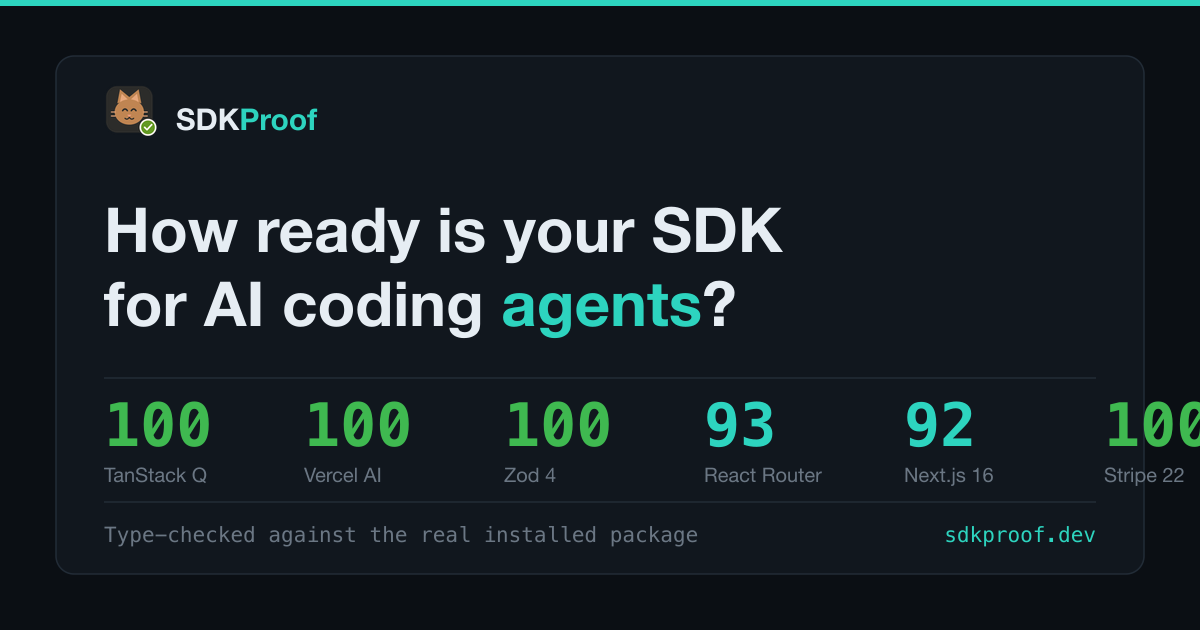
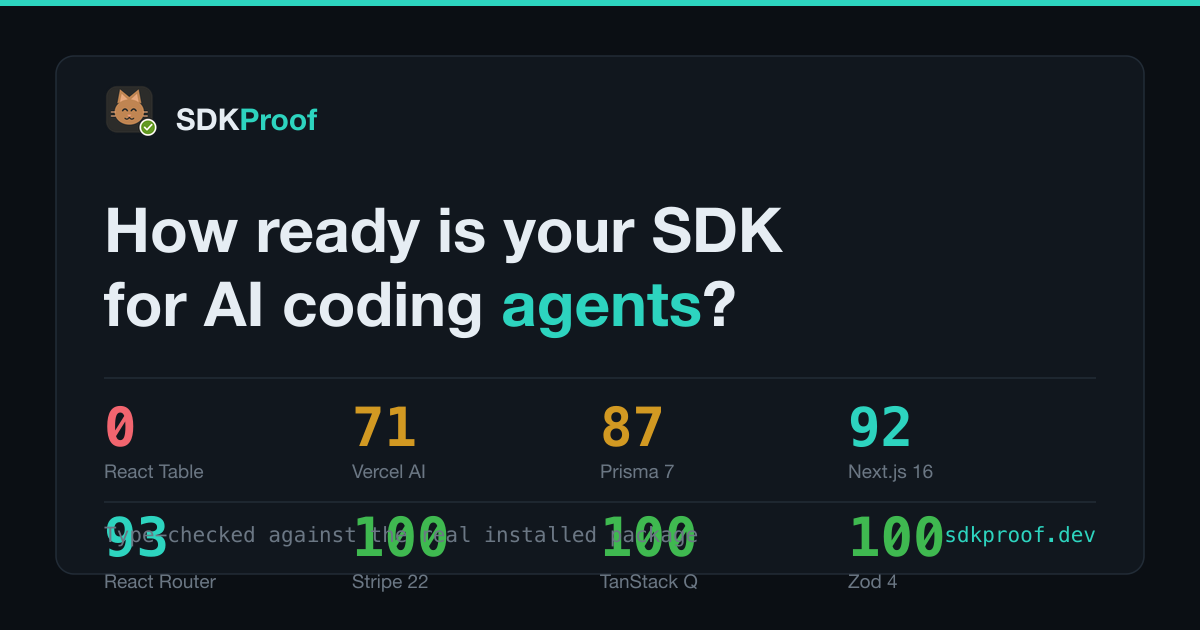
Close the three gaps the site audit turned up
react-table was on the board and in runs.json but absent from scores.json and
had no badge, so the lowest score on the site was missing from the only
machine-readable feed anyone else would read. It looked like data that did not
exist rather than a decision. Added to LIBS; scores.json now carries all eight
and there are seven badges. Stripe still has none on purpose — its 100 covers 10
of 15 tasks, and a badge is one number by construction.

The share card for the homepage was broken and had been for a while. boardSvg
laid cells out at x = 104 + i * 200 on a 1200px canvas, so the seventh sat at
x=1304 and Prisma 7 was drawn off the edge of every link preview. It also still
showed the Vercel AI SDK at 100 and had no react-table at all. Now two rows of
four, all eight libraries, worst first, rightmost cell ending at 958 with the
lowest baseline at 588 — inside 1200x630 with room.

The README regained the agent-docs finding. The rewrite dropped it rather than
republish figures it could not verify, which was right at the time; the numbers
are guarded by published-numbers.test.ts and are now quoted from there. The
sentence a library already ships fixes the failing task 10 out of 10 from 76 to
174 bytes, and inside React Router's own 25 KB pack the same sentence fixes
nothing. That is one of the better results here and it was only on the site.

diff --git a/docs/badge.html b/docs/badge.html
@@ -475,6 +475,13 @@
         </div>
         <pre class="snip"><code>[![SDKProof: 87/100](https://sdkproof.dev/badge/prisma7.svg)](https://sdkproof.dev/prisma7.html?ref=badge)</code></pre>
       </div>
+      <div class="badge-row">
+        <div class="badge-head">
+          <img class="badge-img" src="badge/react-table.svg" alt="SDKProof: 0/100" width="111" height="20">
+          <span class="badge-lib">TanStack React Table 9 <span class="badge-ver">9.1.2</span></span>
+        </div>
+        <pre class="snip"><code>[![SDKProof: 0/100](https://sdkproof.dev/badge/react-table.svg)](https://sdkproof.dev/react-table.html?ref=badge)</code></pre>
+      </div>
   </section>
 
   <section class="sec">

diff --git a/scorecards/badge.html b/scorecards/badge.html
@@ -436,6 +436,13 @@
         </div>
         <pre class="snip"><code>[![SDKProof: 87/100](https://sdkproof.dev/badge/prisma7.svg)](https://sdkproof.dev/prisma7.html?ref=badge)</code></pre>
       </div>
+      <div class="badge-row">
+        <div class="badge-head">
+          <img class="badge-img" src="badge/react-table.svg" alt="SDKProof: 0/100" width="111" height="20">
+          <span class="badge-lib">TanStack React Table 9 <span class="badge-ver">9.1.2</span></span>
+        </div>
+        <pre class="snip"><code>[![SDKProof: 0/100](https://sdkproof.dev/badge/react-table.svg)](https://sdkproof.dev/react-table.html?ref=badge)</code></pre>
+      </div>
   </section>
 
   <section class="sec">

diff --git a/README.md b/README.md
@@ -131,6 +131,35 @@ React Router 8 removed plenty & scores 93, because v8 mostly finished removals
 that v7 had already deprecated. TanStack Table 9 renamed the main hook outright
 and scores 0.
 
+## Does shipping docs for AI agents fix it?
+
+Some libraries now ship files written for AI coding assistants. It's worth
+asking whether they work, so I measured it.
+
+I took three libraries, each with one job the model reliably gets wrong, and
+each with a sentence in its own documentation that names the fix. Then I gave
+the model that sentence three ways: not at all, on its own, and buried inside
+the library's own docs pack. Ten tries per cell, same task, same model, same
+installed package.
+
+| Library & the task it fails | No context | The sentence alone | Inside the library's own docs |
+|---|:---:|:---:|:---:|
+| React Router — the `meta()` argument | 0 / 10 | **10 / 10** (76 B) | 0 / 10 (25 KB pack) |
+| Prisma — building the client | 0 / 10 | **10 / 10** (174 B) | 5 / 10 (25 KB pack) |
+| Next.js — `revalidateTag` argument count | 0 / 10 | **10 / 10** (137 B) | 10 / 10 (6.6 KB page) |
+
+The sentence works. Every time, all three libraries, from a fix of 76 to 174
+bytes. None of them were written for this — each is quoted word for word from
+the library's own docs.
+
+What changes is how it reaches the model. React Router already ships that exact
+sentence inside a 25 KB pack, and in there it fixes nothing. Next.js serves a
+6.6 KB page and it works. So the useful question for a maintainer isn't whether
+to write docs for agents. It's whether the answer can be found once it's in
+there.
+
+Full write-up, with what is and isn't measured: <https://sdkproof.dev/agent-docs.html>
+
 ## How to read a score
 
 **It measures the model, not the library.** A 0 is not a defect in the library's
